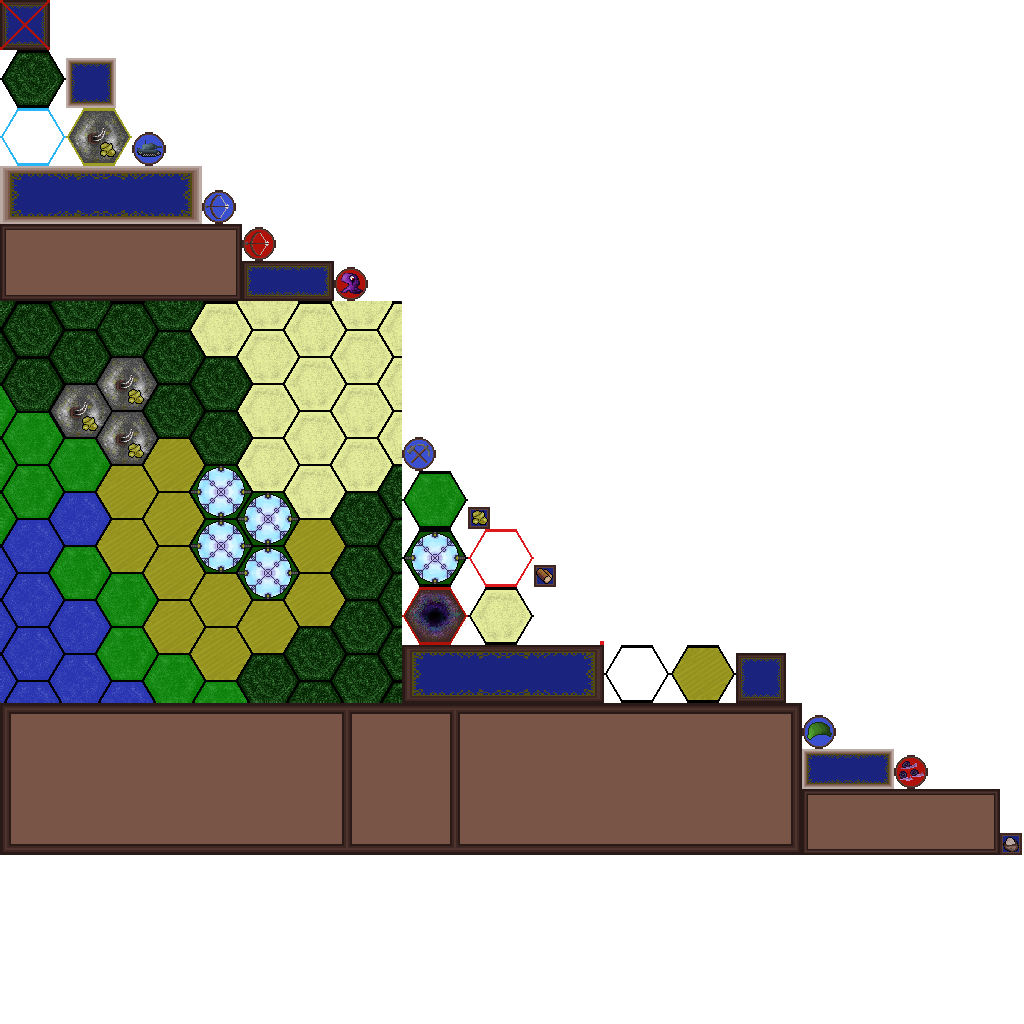
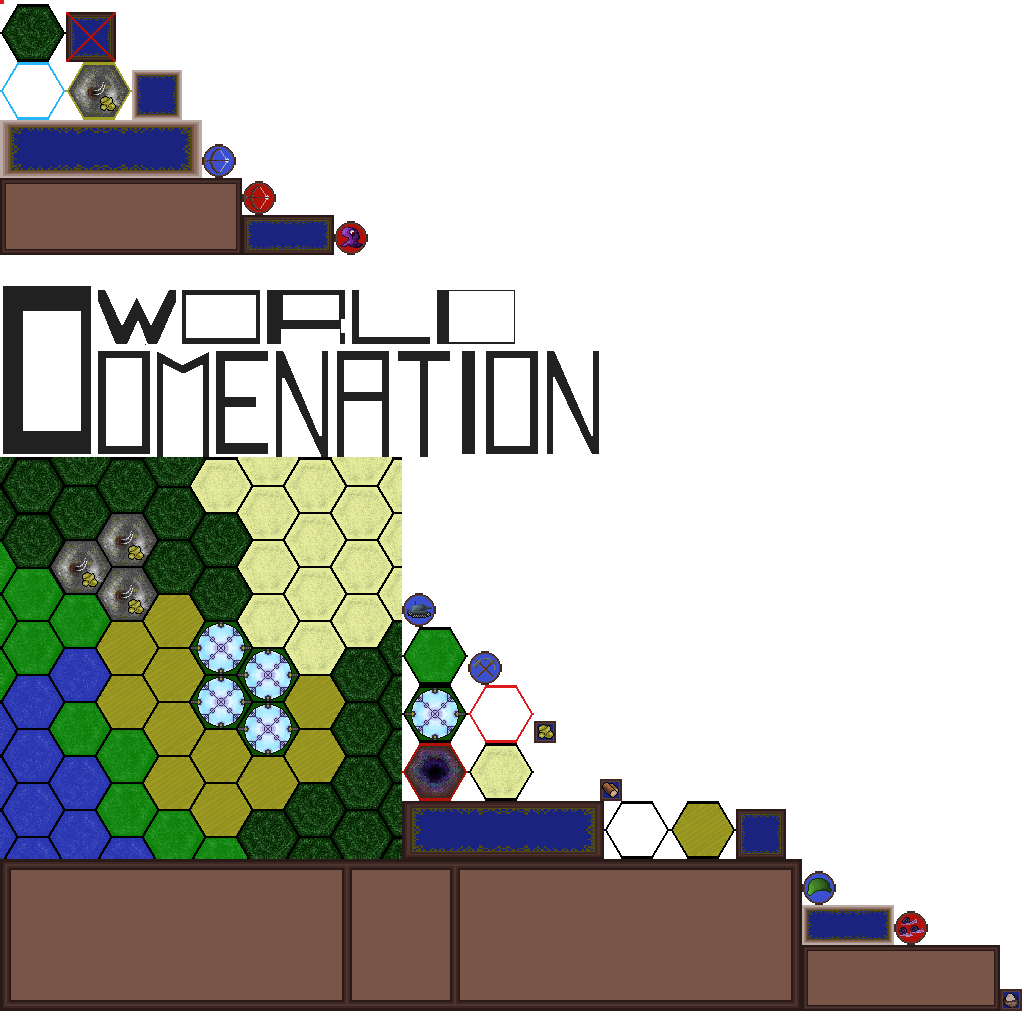
A lot I guess

diff --git a/LudumDare40/core/src/com/svarttand/ludumdare40/map/HexagonMap.java b/LudumDare40/core/src/com/svarttand/ludumdare40/map/HexagonMap.java
@@ -33,9 +33,9 @@ public class HexagonMap {
 	private GameStateManager gsm;
 	
 	private Random random;
+	private PlayState game;
 	
-	
-	public HexagonMap(int x, int y, GameStateManager gsm){
+	public HexagonMap(int x, int y, GameStateManager gsm, PlayState game){
 		this.gsm = gsm;
 		sizeX = x;
 		sizeY = y;
@@ -54,6 +54,7 @@ public class HexagonMap {
 		map[randx][randy].setType(TileType.CITY);
 		startPos = new Vector2(map[randx][randy].getPosX(), map[randx][randy].getPosY());
 		addCity(map[randx][randy]);
+		this.game = game;
 		//updateBorders(game.getUI());
 	}
 	
@@ -171,33 +172,37 @@ public class HexagonMap {
 	}
 	
 	public void update(ResourceHandler handler){
-		int randx = random.nextInt((sizeX - 5)) + 3;
-		int randy = random.nextInt((sizeY - 5)) + 3;
 		
-		Hexagon temp = map[randx][randy];
-		boolean notPossibleLocation = false;
-		for (int i = 0; i < cityList.size(); i++) {
-			cityList.get(i).setSelected(BorderType.BLUE);
-			handler.addTilesResourcers(cityList.get(i));
-			if (temp.getType() == TileType.GOLD) {
-				notPossibleLocation = true;
-			}
-			if (temp.isSame(cityList.get(i))) {
-				notPossibleLocation = true;
-			}
-			for (int j = 0; j < cityList.get(i).getNeighbors().size(); j++) {
-				cityList.get(i).getNeighbors().get(j).setSelected(BorderType.BLUE);
-				handler.addTilesResourcers(cityList.get(i).getNeighbors().get(j));
-				if (temp.isSame(cityList.get(i).getNeighbors().get(j))) {
+		for (int j1 = 0; j1 < 3; j1++) {
+			int randx = random.nextInt((sizeX - 5)) + 3;
+			int randy = random.nextInt((sizeY - 5)) + 3;
+			
+			Hexagon temp = map[randx][randy];
+			boolean notPossibleLocation = false;
+			for (int i = 0; i < cityList.size(); i++) {
+				cityList.get(i).setSelected(BorderType.BLUE);
+				handler.addTilesResourcers(cityList.get(i));
+				if (temp.getType() == TileType.GOLD) {
 					notPossibleLocation = true;
 				}
+				if (temp.isSame(cityList.get(i))) {
+					notPossibleLocation = true;
+				}
+				for (int j = 0; j < cityList.get(i).getNeighbors().size(); j++) {
+					cityList.get(i).getNeighbors().get(j).setSelected(BorderType.BLUE);
+					handler.addTilesResourcers(cityList.get(i).getNeighbors().get(j));
+					if (temp.isSame(cityList.get(i).getNeighbors().get(j))) {
+						notPossibleLocation = true;
+					}
+				}
+			}
+			if (!notPossibleLocation && campList.size() <= handler.getGold()*0.08f) {
+				temp.setType(TileType.CAMP);
+				campList.add(temp);
+				System.out.println("Added camp");
 			}
 		}
-		if (!notPossibleLocation && campList.size() <= handler.getGold()*0.08f) {
-			temp.setType(TileType.CAMP);
-			campList.add(temp);
-			System.out.println("Added camp");
-		}
+		
 			
 		
 	}
@@ -224,6 +229,8 @@ public class HexagonMap {
 		ui.updateGain(food, gold, wood);
 		if (ownedGold.size() == getTotalGold()) {
 			System.out.println("game won");
+			gsm.pop();
+			gsm.peek().updateScreen(false, game.getTurnCounter());
 		}
 	}
 
@@ -244,7 +251,9 @@ public class HexagonMap {
 			}
 		}else{
 			System.out.println("Game Lost!");
+			
 			gsm.pop();
+			gsm.peek().updateScreen(false, game.getTurnCounter());
 		}
 		removeGold(city.getNeighbors());
 		

diff --git a/LudumDare40/core/src/com/svarttand/ludumdare40/states/MenuState.java b/LudumDare40/core/src/com/svarttand/ludumdare40/states/MenuState.java
@@ -1,19 +1,26 @@
 package com.svarttand.ludumdare40.states;
 
 import com.badlogic.gdx.Gdx;
+import com.badlogic.gdx.graphics.Color;
 import com.badlogic.gdx.graphics.GL20;
+import com.badlogic.gdx.graphics.g2d.BitmapFont;
 import com.badlogic.gdx.graphics.g2d.SpriteBatch;
 import com.badlogic.gdx.graphics.g2d.TextureAtlas;
+import com.badlogic.gdx.scenes.scene2d.ui.Label;
 import com.badlogic.gdx.utils.viewport.StretchViewport;
 import com.badlogic.gdx.utils.viewport.Viewport;
 import com.svarttand.ludumdare40.Application;
 import com.svarttand.ludumdare40.ui.MenuUI;
+import com.badlogic.gdx.scenes.scene2d.ui.Label.LabelStyle;
 
 public class MenuState extends State{
 
 	private Viewport viewport;
 	private TextureAtlas textureAtlas;
 	private MenuUI ui;
+	
+	private Label gameOverLabel;
+	private BitmapFont font;
 	
 	public MenuState(GameStateManager gsm) {
 		super(gsm);
@@ -24,7 +31,12 @@ public class MenuState extends State{
         viewport.apply();
         viewport.update(Gdx.graphics.getWidth(), Gdx.graphics.getHeight());
         ui = new MenuUI(textureAtlas, gsm, viewport,cam);
+        font = new BitmapFont();
+        gameOverLabel = new Label("", new LabelStyle(font, Color.WHITE));
+        gameOverLabel.setPosition(Application.V_WIDTH*0.5f-gameOverLabel.getWidth()*0.5f, Application.V_WIDTH*0.5f-gameOverLabel.getWidth()*0.5f);
 	}
+	
+	
 
 	@Override
 	protected void handleInput(float delta) {
@@ -45,6 +57,8 @@ public class MenuState extends State{
         Gdx.gl.glClear(GL20.GL_COLOR_BUFFER_BIT);
 		batch.begin();
 		batch.draw(textureAtlas.findRegion("Background"), 0, 0, Application.V_WIDTH, Application.V_HEIGHT);
+		batch.draw(textureAtlas.findRegion("Title"), Application.V_WIDTH*0.5f- textureAtlas.findRegion("Title").getRegionWidth()*0.5f, Application.V_HEIGHT*0.5f);
+		gameOverLabel.draw(batch, 1);
 		batch.end();
 		ui.getStage().draw();
 	}
@@ -58,7 +72,22 @@ public class MenuState extends State{
 	@Override
 	public void resize(int width, int height) {
 		viewport.update(width, height);
-		
+	}
+
+
+
+	@Override
+	public void updateScreen(boolean b, int t) {
+		System.out.println("Main menu again");
+		Gdx.input.setInputProcessor(ui.getStage());
+		viewport.update(Gdx.graphics.getWidth(), Gdx.graphics.getHeight());
+		if (b) {
+			gameOverLabel.setText("Congratulations You are VICTORIOUS!\n Number of turns it took: " + t);
+			gameOverLabel.setPosition(Application.V_WIDTH*0.4f-gameOverLabel.getWidth()*0.5f, Application.V_HEIGHT*0.4f-gameOverLabel.getHeight()*0.5f);
+		}else {
+			gameOverLabel.setText("You Have Been DEFEATED!\n Number of turns it took: " + t);
+			gameOverLabel.setPosition(Application.V_WIDTH*0.4f-gameOverLabel.getWidth()*0.5f, Application.V_HEIGHT*0.4f-gameOverLabel.getHeight()*0.5f);
+		}
 	}
 	
 	

diff --git a/LudumDare40/core/src/com/svarttand/ludumdare40/states/PlayState.java b/LudumDare40/core/src/com/svarttand/ludumdare40/states/PlayState.java
@@ -49,7 +49,7 @@ public class PlayState extends State{
 	private ShapeRenderer renderer;
 	
 	private ArrayList<Sound> audioList;
-	
+	private int turnCounter;
 	private BitmapFont font;
 	
 	public PlayState(GameStateManager gsm, TextureAtlas textureAtlas2) {
@@ -57,11 +57,11 @@ public class PlayState extends State{
 		textureAtlas = textureAtlas2;
 		viewport = new StretchViewport(Application.V_WIDTH, Application.V_HEIGHT, cam);
 		viewport.update(Gdx.graphics.getWidth(), Gdx.graphics.getHeight());
-		map = new HexagonMap(10, 22, gsm);
+		map = new HexagonMap(10, 22, gsm, this);
 		controller = new GameController(this);
 		multiplexer = new InputMultiplexer();
 
-		resourceHandler = new ResourceHandler(5,5,5);
+		resourceHandler = new ResourceHandler(30,20,20);
 		ui = new PlayUI(textureAtlas, this);
 		map.updateBorders(ui);
 		multiplexer.addProcessor(ui.getStage());
@@ -81,9 +81,8 @@ public class PlayState extends State{
 		cam.position.x = map.getStartPos().x;
 		cam.position.y = Application.V_HEIGHT*0.3f;
 		
-		resourceHandler = new ResourceHandler(5,5,5);
 		enemyUnitHandler = new EnemyUnitHandler(font);
-		
+		turnCounter = 0;
 		renderer = new ShapeRenderer();
 	}
 
@@ -147,6 +146,8 @@ public class PlayState extends State{
 	@Override
 	public void dispose() {
 		ui.dispose();
+		font.dispose();
+		
 		
 	}
 
@@ -177,6 +178,7 @@ public class PlayState extends State{
 	}
 
 	public void nextTurn() {
+		turnCounter++;
 		unitHandler.nextTurn();
 		map.update(resourceHandler);
 		ui.update(resourceHandler, map);
@@ -187,10 +189,20 @@ public class PlayState extends State{
 	public ResourceHandler getResources(){
 		return resourceHandler;
 	}
+	
+	public int getTurnCounter(){
+		return turnCounter;
+	}
 
 	public UHandler getEnemyUnitHandler() {
 		// TODO Auto-generated method stub
 		return enemyUnitHandler;
+	}
+
+	@Override
+	public void updateScreen(boolean b, int t) {
+		// TODO Auto-generated method stub
+		
 	}
 	
 	

diff --git a/LudumDare40/core/src/com/svarttand/ludumdare40/ui/PlayUI.java b/LudumDare40/core/src/com/svarttand/ludumdare40/ui/PlayUI.java
@@ -104,8 +104,6 @@ public class PlayUI {
 	    buildInfoText = new Label("Nothing selected", new LabelStyle(font, Color.WHITE));
 	    buildInfoText.setPosition(Application.V_WIDTH *0.115f, Application.V_HEIGHT*0.2f);
 	    
-	    buildInfoText = new Label("", new LabelStyle(font, Color.WHITE));
-	    buildInfoText.setPosition(Application.V_WIDTH *0.115f, Application.V_HEIGHT*0.2f);
 	    
 	    foodText = new Label("10", new LabelStyle(font, Color.WHITE));
 	    foodText.setPosition(Application.V_WIDTH *0.06f, Application.V_HEIGHT*0.02f);
@@ -402,6 +400,7 @@ public class PlayUI {
 	
 	public void dispose(){
 		stage.dispose();
+		font.dispose();
 	}
 	
 	public void setHex(Hexagon hex){

diff --git a/LudumDare40/core/src/com/svarttand/ludumdare40/ui/MenuUI.java b/LudumDare40/core/src/com/svarttand/ludumdare40/ui/MenuUI.java
@@ -48,13 +48,13 @@ public class MenuUI {
 	         @Override
 	         public void clicked(InputEvent event, float x, float y) {
 	             gsm.push(new PlayState(gsm, textureAtlas));
-
+	             playButton.setChecked(false);
 	            }
 	        });
 	     
 	     stage.addActor(playButton);
 	     
-	     text = new Label("Made by Albert Lindberg for Ludum Dare in 48 hours", new LabelStyle(font, Color.WHITE));
+	     text = new Label("Made by Albert Lindberg in libgdx for Ludum Dare in 48 hours", new LabelStyle(font, Color.WHITE));
 		 text.setPosition(Application.V_WIDTH *0.5f - text.getWidth()*0.5f, Application.V_HEIGHT*0.06f);
 		 
 		 stage.addActor(text);

diff --git a/LudumDare40/core/src/com/svarttand/ludumdare40/units/UnitType.java b/LudumDare40/core/src/com/svarttand/ludumdare40/units/UnitType.java
@@ -1,12 +1,12 @@
 package com.svarttand.ludumdare40.units;
 
 public enum UnitType {
-	WARRIOR("Infantry", 2, 1, 20,10, 10,5,0,false),
-	WORKER("Worker", 2,0,10,0, 20,10,10,false),
+	WARRIOR("Infantry", 2, 1, 20,10, 20,10,2,false),
+	WORKER("Worker", 2,0,10,0, 30,20,20,false),
 	ARCHER("Archer", 2, 2,15,5,5,10,0,false),
 	ARCHER_ENEMY("ArcherEnemy", 2, 2,15,5,5,10,0, true),
 	WARRIOR_ENEMY("SnailAiliens", 2, 1, 20,10, 5,5,0, true),
-	TANK("Tank", 2,1,50,15,20,20,20,false),
+	TANK("Tank", 2,1,50,20,30,30,30,false),
 	TANK_ENEMY("BigBadAilien", 2,1,50,15,20,20,20,true);
 	
 	private String path;

diff --git a/LudumDare40/core/src/com/svarttand/ludumdare40/misc/ResourceHandler.java b/LudumDare40/core/src/com/svarttand/ludumdare40/misc/ResourceHandler.java
@@ -12,7 +12,7 @@ public class ResourceHandler {
 	private int food;
 	
 	
-	public ResourceHandler(int wood, int gold, int food){
+	public ResourceHandler(int food, int gold, int wood){
 		this.wood = wood;
 		this.gold = gold;
 		this.food = food;

diff --git a/LudumDare40/core/src/com/svarttand/ludumdare40/states/LoadingState.java b/LudumDare40/core/src/com/svarttand/ludumdare40/states/LoadingState.java
@@ -88,4 +88,10 @@ public class LoadingState extends State {
         viewport.update(width, height);
 
     }
+
+	@Override
+	public void updateScreen(boolean b, int t) {
+		// TODO Auto-generated method stub
+		
+	}
 }

diff --git a/LudumDare40/core/src/com/svarttand/ludumdare40/states/State.java b/LudumDare40/core/src/com/svarttand/ludumdare40/states/State.java
@@ -25,4 +25,6 @@ public abstract class State {
 	    public abstract void dispose();
 	    public abstract void resize(int width, int height);
 
+		public abstract void updateScreen(boolean b, int i);
+
 }
